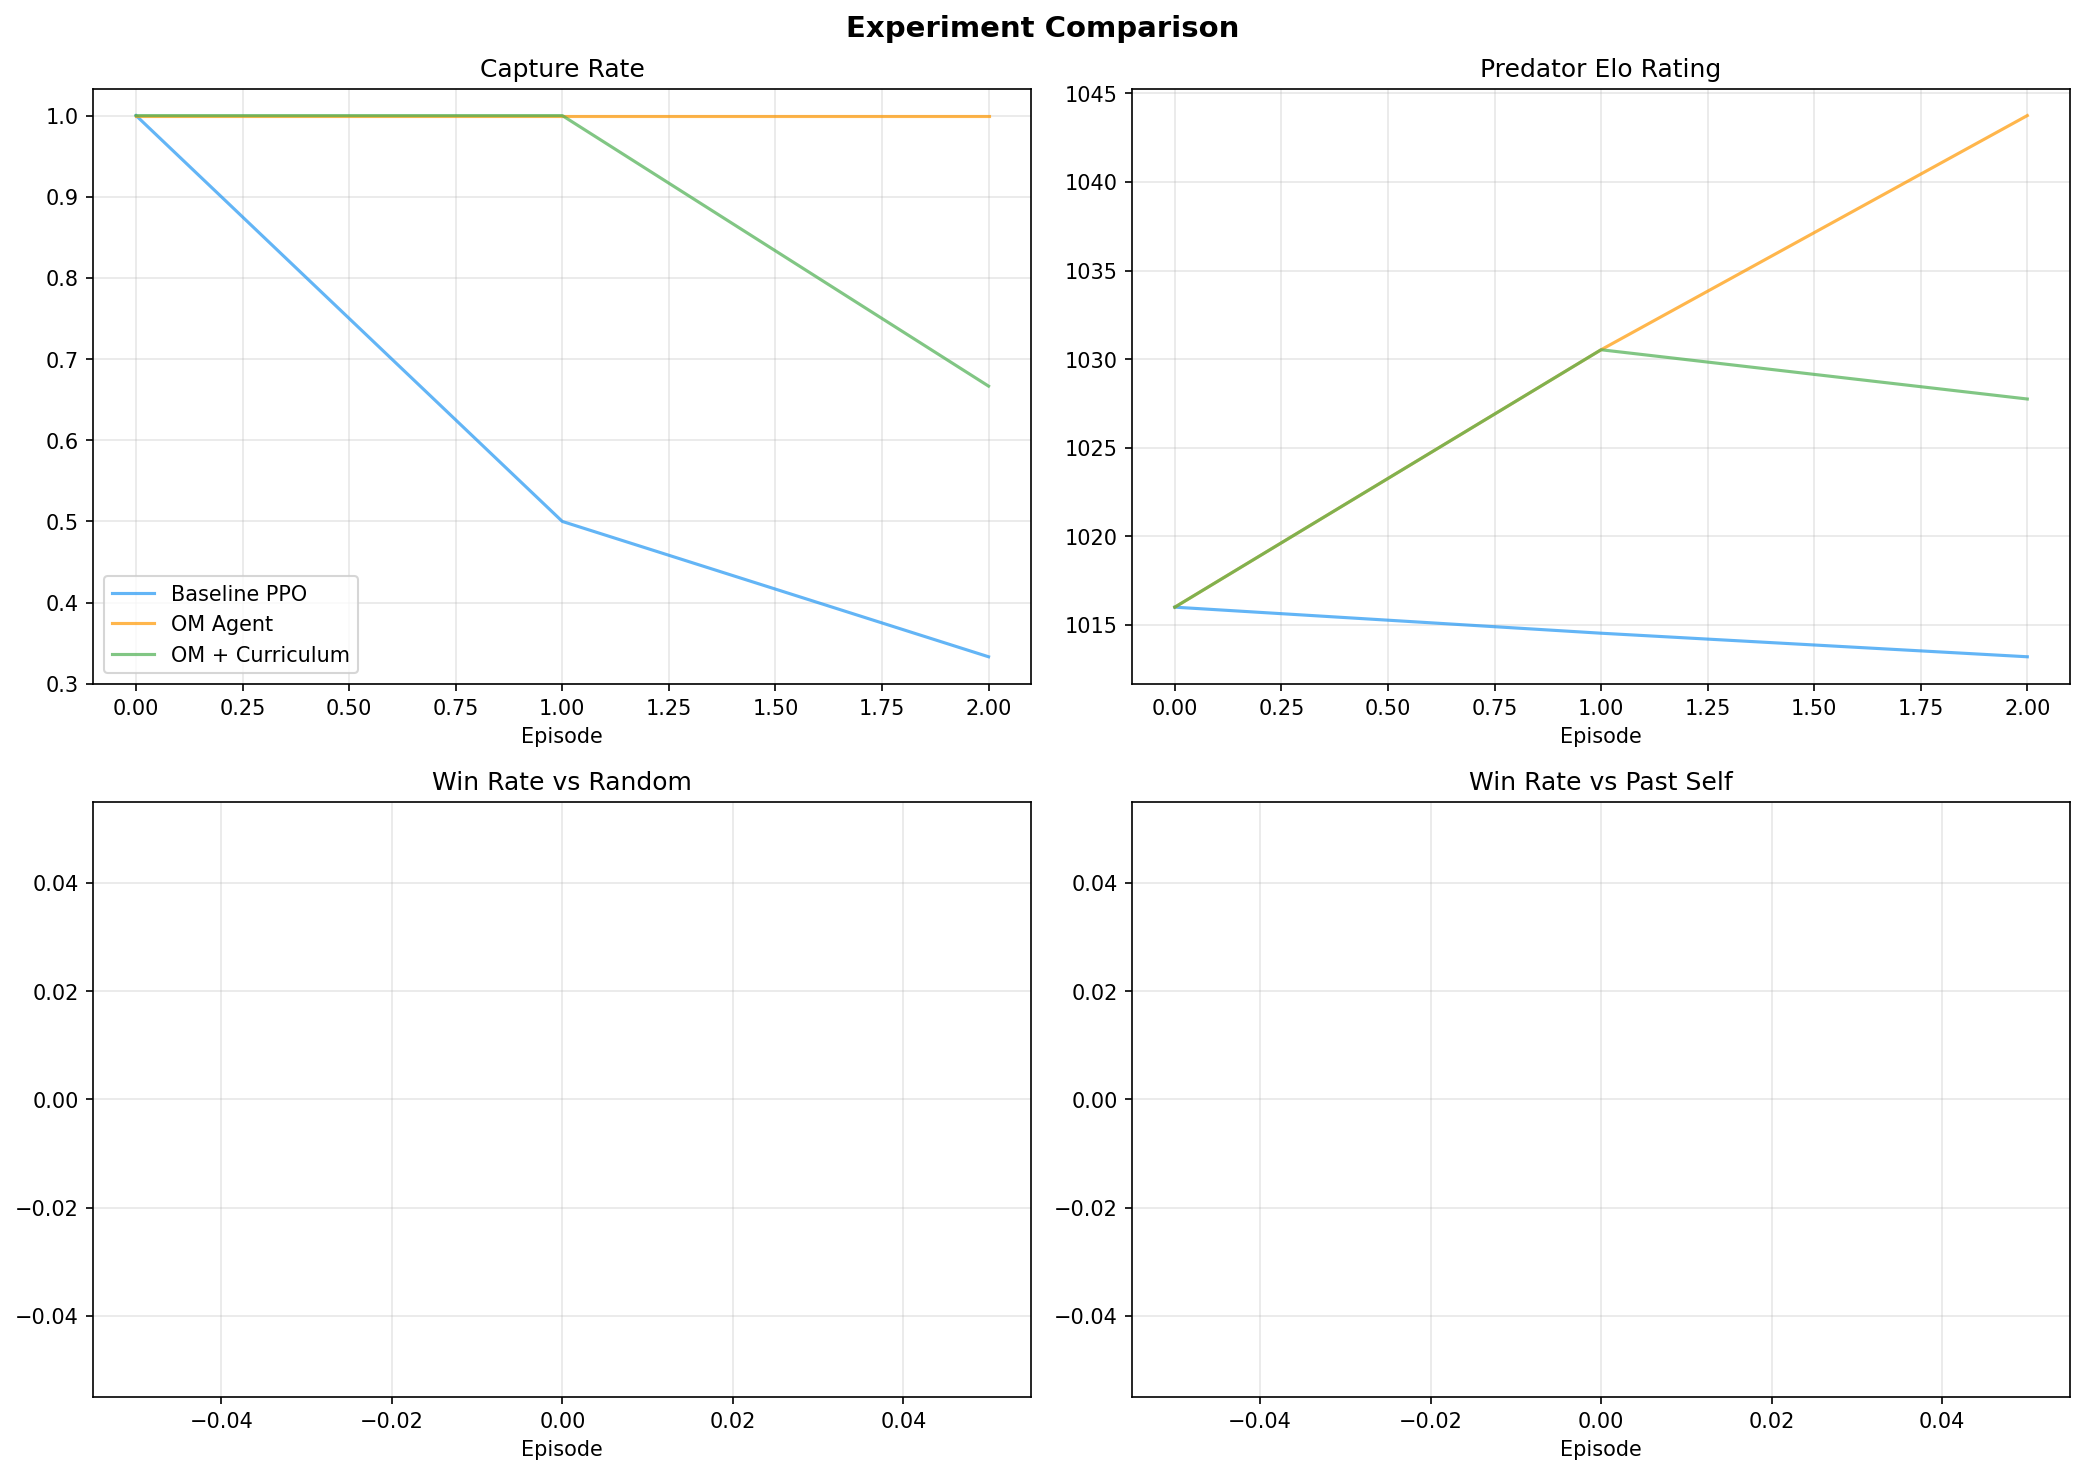
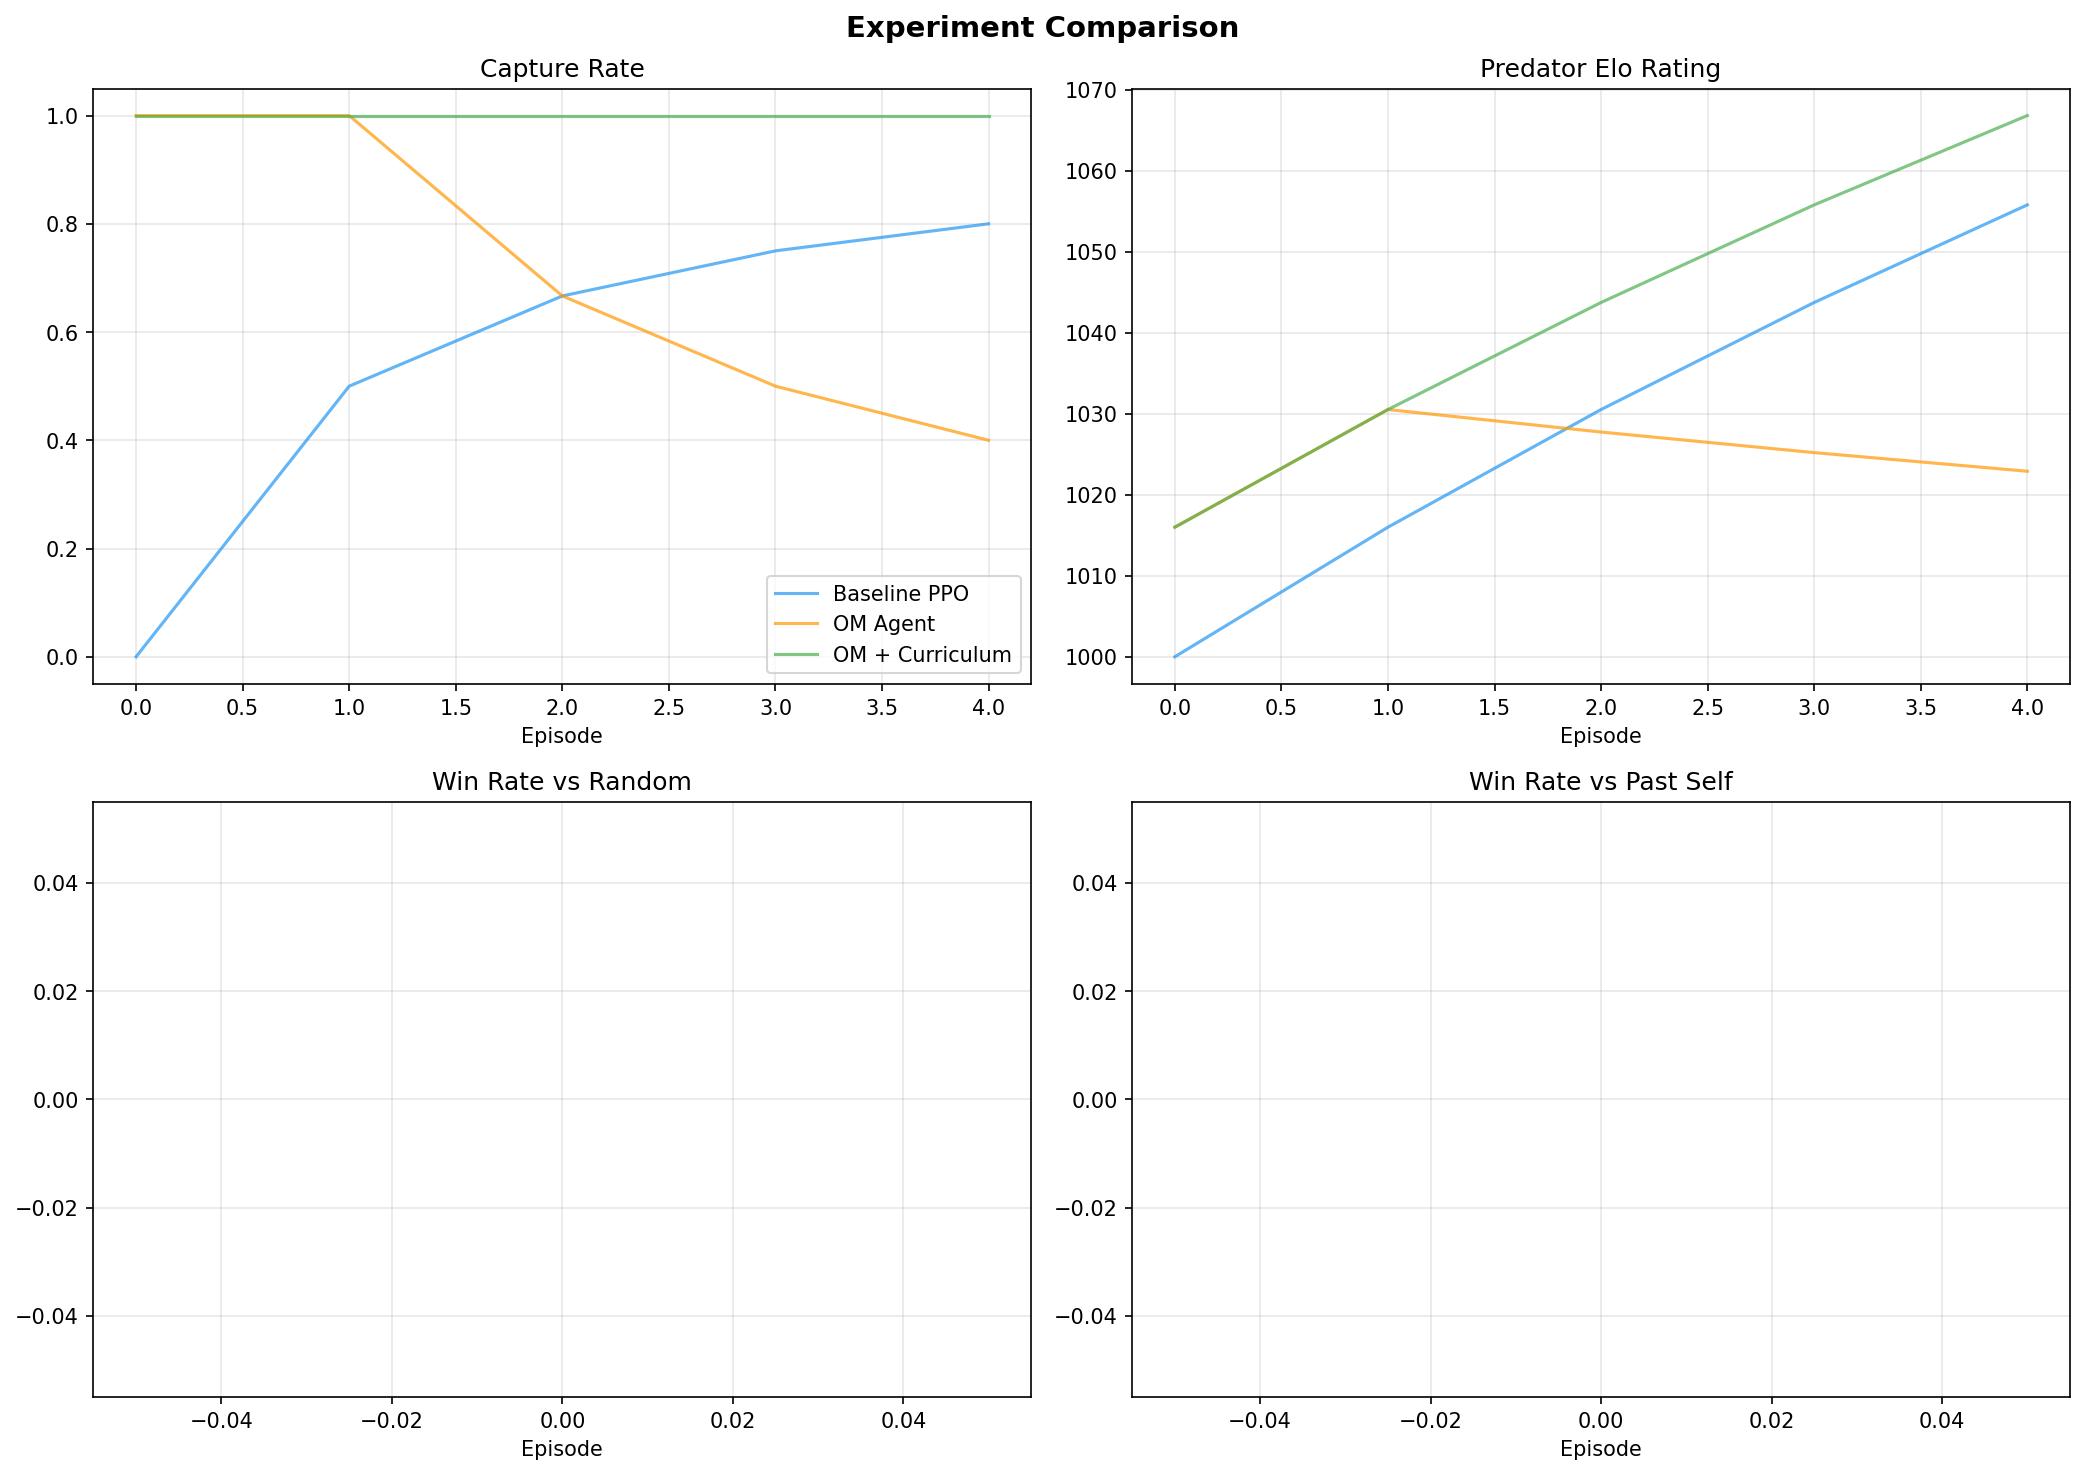
feat: add --quick, --episodes N, --no-wandb CLI flags to run_all pipeline
Argparse integration with three flags: --quick (5 eps smoke test, note ROLLOUT_STEPS), --episodes N (explicit override), --no-wandb (disable logging). Priority: --episodes > --quick > env var > config. All 38 tests pass, pipeline verified end-to-end.

diff --git a/experiments/run_all.py b/experiments/run_all.py
@@ -8,7 +8,12 @@ Experiments:
   3. om_curriculum      — PPO + opponent model + curriculum learning (5→7→10)
 
 Usage:
-    python -m experiments.run_all
+    python -m experiments.run_all [--quick] [--episodes N] [--no-wandb]
+
+Options:
+    --quick        Short smoke test with 5 episodes per experiment
+    --episodes N   Override total episodes for each experiment
+    --no-wandb     Disable wandb logging even when available and authenticated
 
 Outputs:
   - results/baseline_ppo/    (metrics, checkpoints, metadata)
@@ -20,6 +25,7 @@ Outputs:
 
 from __future__ import annotations
 
+import argparse
 import logging
 import os
 import time
@@ -416,11 +422,15 @@ def _log_comparison_to_wandb(
         wandb.finish()
 
 
-def _get_episode_override() -> int | None:
-    """Check environment for episode count override.
+def _get_episode_override(args: argparse.Namespace) -> int | None:
+    """Resolve episode count override from CLI args then env var.
 
-    Supports TOTAL_EPISODES env var for quick smoke-test runs.
+    Priority: --episodes > --quick > TOTAL_EPISODES env var > config default.
     """
+    if args.episodes is not None:
+        return args.episodes
+    if args.quick:
+        return 5
     val = os.environ.get("TOTAL_EPISODES")
     if val is not None:
         try:
@@ -449,14 +459,37 @@ def _can_use_wandb() -> bool:
         return False
 
 
+def _parse_args() -> argparse.Namespace:
+    """Parse command-line arguments for the experiment pipeline."""
+    parser = argparse.ArgumentParser(
+        description="Run all three experiment configurations and compare results.",
+    )
+    parser.add_argument(
+        "--quick", action="store_true",
+        help="Run a quick smoke test (5 episodes per experiment; note: may "
+             "not trigger PPO updates due to ROLLOUT_STEPS requirement).",
+    )
+    parser.add_argument(
+        "--episodes", type=int, default=None, metavar="N",
+        help="Override total episodes for each experiment.",
+    )
+    parser.add_argument(
+        "--no-wandb", action="store_true",
+        help="Disable wandb logging even when available and authenticated.",
+    )
+    return parser.parse_args()
+
+
 def main() -> None:
     logging.basicConfig(
         level=logging.INFO,
         format="%(asctime)s [%(levelname)s] %(message)s",
     )
 
-    # Support env var override for quick pipeline tests
-    total_episodes = _get_episode_override()
+    args = _parse_args()
+
+    # Resolve episode count from CLI args / env var / config default
+    total_episodes = _get_episode_override(args)
     if total_episodes is not None:
         logger.info(
             "TOTAL_EPISODES=%d (overriding config default %d)",
@@ -464,8 +497,9 @@ def main() -> None:
         )
 
     # Enable wandb for the pipeline whenever it's available AND authenticated.
+    # --no-wandb flag explicitly disables it.
     # Save/restore config so individual experiment scripts keep their default.
-    use_wandb = _can_use_wandb()
+    use_wandb = _can_use_wandb() and not args.no_wandb
     _original_use_wandb = config.USE_WANDB
     if use_wandb:
         config.USE_WANDB = True
